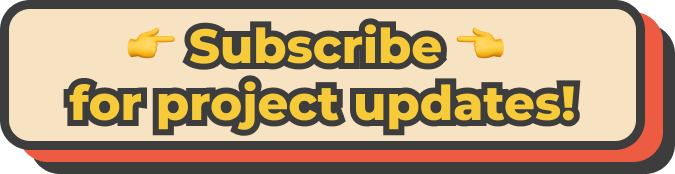
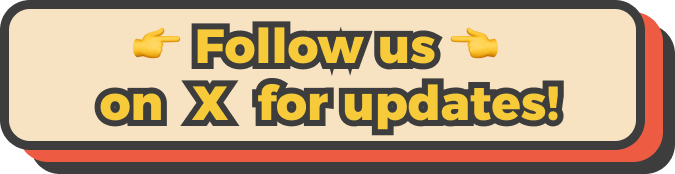
feat: update x link

Changed region(s): [[0.0933, 0.431, 0.8711, 0.8046], [0.1867, 0.0862, 0.7467, 0.431]]

diff --git a/components/pc/page.tsx b/components/pc/page.tsx
@@ -183,7 +183,7 @@ export default function Home() {
           src="/first_bg.png"
           alt="bg"
         ></Image>
-        <Link href={"https://forms.gle/aDptNca4xz6yFZyg8"} target="_blank">
+        <Link href={"https://twitter.com/pingpongbuild"} target="_blank">
           <Image
             ref={homeServiceSubscribeRef}
             alt="subscribe"

diff --git a/components/mobile/page.tsx b/components/mobile/page.tsx
@@ -139,7 +139,7 @@ export default function Mobile() {
         ></Image>
         <Image
           onClick={() => {
-            window.open("https://forms.gle/aDptNca4xz6yFZyg8", "_blank");
+            window.open("https://twitter.com/pingpongbuild", "_blank");
           }}
           width={675}
           height={174}
